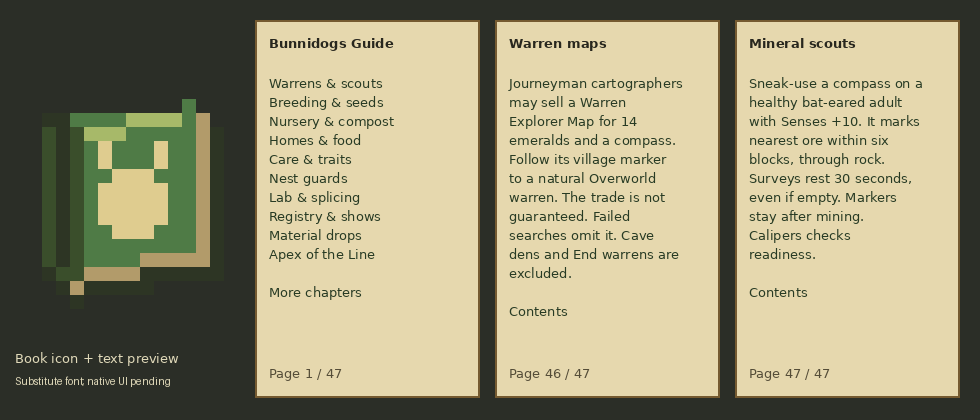
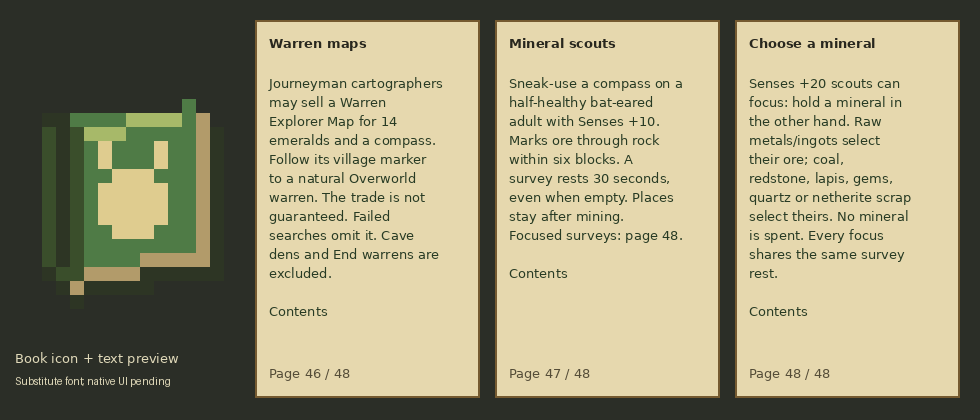
Let advanced mineral scouts focus surveys on a selected ore family

diff --git a/src/main/java/com/bunnidogs/mod/entity/MineralScouting.java b/src/main/java/com/bunnidogs/mod/entity/MineralScouting.java
@@ -1,6 +1,7 @@
 package com.bunnidogs.mod.entity;
 
 import com.bunnidogs.mod.genetics.Scouting;
+import com.bunnidogs.mod.genetics.Stat;
 import com.bunnidogs.mod.item.PlaceMarkers;
 import net.minecraft.core.BlockPos;
 import net.minecraft.core.registries.Registries;
@@ -13,13 +14,50 @@ import net.minecraft.world.InteractionHand;
 import net.minecraft.world.InteractionResult;
 import net.minecraft.world.entity.player.Player;
 import net.minecraft.world.level.block.Block;
+import net.minecraft.world.level.block.Blocks;
+import net.minecraft.world.level.block.state.BlockState;
+import net.minecraft.world.item.Items;
+import net.minecraft.world.item.ItemStack;
 
 /** Deliberate local survey; no terrain edits, random rolls, path search or chunk requests. */
 public final class MineralScouting {
     private MineralScouting() {}
     public static final TagKey<Block> ORES = TagKey.create(Registries.BLOCK,
             Identifier.fromNamespaceAndPath("bunnidogs","surveyable_ores"));
+    private static TagKey<Block> oreTag(String mineral) {
+        return TagKey.create(Registries.BLOCK,Identifier.withDefaultNamespace(mineral+"_ores"));
+    }
+    enum Focus {
+        ANY(null,null), COAL(oreTag("coal"),null), IRON(oreTag("iron"),null), COPPER(oreTag("copper"),null),
+        GOLD(oreTag("gold"),null), REDSTONE(oreTag("redstone"),null), LAPIS(oreTag("lapis"),null),
+        DIAMOND(oreTag("diamond"),null), EMERALD(oreTag("emerald"),null),
+        QUARTZ(null,Blocks.NETHER_QUARTZ_ORE), DEBRIS(null,Blocks.ANCIENT_DEBRIS);
+        private final TagKey<Block> family;
+        private final Block exact;
+        Focus(TagKey<Block> family, Block exact) { this.family = family; this.exact = exact; }
+        boolean matches(BlockState state) {
+            return state.is(ORES) && (this == ANY || this.family != null && state.is(this.family)
+                    || this.exact != null && state.is(this.exact));
+        }
+        Component label() { return Component.translatable("survey.bunnidogs.focus."+name().toLowerCase(java.util.Locale.ROOT)); }
+    }
+    private static Focus requested(ItemStack mineral) {
+        if (mineral.is(Items.COAL)) return Focus.COAL;
+        if (mineral.is(Items.RAW_IRON) || mineral.is(Items.IRON_INGOT)) return Focus.IRON;
+        if (mineral.is(Items.RAW_COPPER) || mineral.is(Items.COPPER_INGOT)) return Focus.COPPER;
+        if (mineral.is(Items.RAW_GOLD) || mineral.is(Items.GOLD_INGOT)) return Focus.GOLD;
+        if (mineral.is(Items.REDSTONE)) return Focus.REDSTONE;
+        if (mineral.is(Items.LAPIS_LAZULI)) return Focus.LAPIS;
+        if (mineral.is(Items.DIAMOND)) return Focus.DIAMOND;
+        if (mineral.is(Items.EMERALD)) return Focus.EMERALD;
+        if (mineral.is(Items.QUARTZ)) return Focus.QUARTZ;
+        if (mineral.is(Items.NETHERITE_SCRAP) || mineral.is(Items.NETHERITE_INGOT)) return Focus.DEBRIS;
+        return Focus.ANY;
+    }
     static BlockPos nearest(ServerLevel level, BlockPos center) {
+        return nearest(level,center,Focus.ANY);
+    }
+    private static BlockPos nearest(ServerLevel level, BlockPos center, Focus focus) {
         BlockPos best = null;
         double distance = Double.POSITIVE_INFINITY;
         int r = Scouting.RADIUS;
@@ -28,7 +66,7 @@ public final class MineralScouting {
             if (squared > r*r || squared >= distance) continue;
             var pos = center.offset(dx,dy,dz);
             if (level.hasChunkAt(pos) && level.getWorldBorder().isWithinBounds(pos)
-                    && level.getBlockState(pos).is(ORES)) { best = pos; distance = squared; }
+                    && focus.matches(level.getBlockState(pos))) { best = pos; distance = squared; }
         }
         return best;
     }
@@ -43,13 +81,18 @@ public final class MineralScouting {
             player.sendOverlayMessage(reason);
             return InteractionResult.SUCCESS;
         }
-        var pos = nearest(level,dog.blockPosition());
+        var focus = requested(player.getItemInHand(hand == InteractionHand.MAIN_HAND ? InteractionHand.OFF_HAND : InteractionHand.MAIN_HAND));
+        if (focus != Focus.ANY && dog.stats().get(Stat.SENSES) < Scouting.MIN_FOCUSED_SENSES) {
+            player.sendOverlayMessage(Component.translatable("message.bunnidogs.scouting.focus_requirement",Scouting.MIN_FOCUSED_SENSES));
+            return InteractionResult.SUCCESS;
+        }
+        var pos = nearest(level,dog.blockPosition(),focus);
         // Empty surveys also rest, so repeated clicks/gene edits cannot turn this into a continuous scanner.
         dog.beginScoutingRecovery();
-        if (pos == null) player.sendOverlayMessage(Component.translatable("message.bunnidogs.scouting.none",Scouting.RADIUS));
+        if (pos == null) player.sendOverlayMessage(Component.translatable("message.bunnidogs.scouting.none",focus.label(),Scouting.RADIUS));
         else {
             PlaceMarkers.bind(level,pos,player,hand);
-            player.sendOverlayMessage(Component.translatable("message.bunnidogs.scouting.marked",level.getBlockState(pos).getBlock().getName(),
+            player.sendSystemMessage(Component.translatable("message.bunnidogs.scouting.marked",level.getBlockState(pos).getBlock().getName(),
                     pos.getX(),pos.getY(),pos.getZ()));
         }
         dog.playSound(SoundEvents.AMETHYST_BLOCK_CHIME,.5F,1.2F);

diff --git a/tools/gametest/java/com/bunnidogs/mod/entity/ScoutingGameTest.java b/tools/gametest/java/com/bunnidogs/mod/entity/ScoutingGameTest.java
@@ -112,9 +112,41 @@ public final class ScoutingGameTest {
         var remote = dog.blockPosition().offset(4096,0,4096);
         h.assertTrue(!level.hasChunkAt(remote) && MineralScouting.nearest(level,remote) == null && !level.hasChunkAt(remote),
                 "An entirely unloaded survey must never request a chunk");
+        var coal = h.absolutePos(new BlockPos(2,1,3));
+        level.setBlock(coal,Blocks.COAL_ORE.defaultBlockState(),2);
+        level.setBlock(far,Blocks.DEEPSLATE_DIAMOND_ORE.defaultBlockState(),2);
+        var mineral = new ItemStack(Items.DIAMOND,2);
+        mineral.set(DataComponents.CUSTOM_NAME,Component.literal("Focus gem"));
+        player.setItemInHand(InteractionHand.MAIN_HAND,mineral);
+        loaded.setStats(Stats.ZERO.with(Stat.SENSES,19));
         loaded.mobInteract(player,InteractionHand.OFF_HAND);
-        h.assertTrue(loaded.scoutingWait() == Scouting.RECOVERY_TICKS && expected.equals(marked.get(DataComponents.LODESTONE_TRACKER)),
+        h.assertTrue(loaded.scoutingWait() == 0 && expected.equals(marked.get(DataComponents.LODESTONE_TRACKER)),
+                "A requested focus at Senses +19 must refuse without spending the general survey");
+        loaded.setStats(Stats.ZERO.with(Stat.SENSES,20));
+        loaded.mobInteract(player,InteractionHand.OFF_HAND);
+        var diamond = new LodestoneTracker(Optional.of(GlobalPos.of(level.dimension(),far)),false);
+        h.assertTrue(diamond.equals(marked.get(DataComponents.LODESTONE_TRACKER)) && mineral.getCount() == 2
+                && mineral.getHoverName().getString().equals("Focus gem") && loaded.scoutingWait() == Scouting.RECOVERY_TICKS,
+                "A focused native survey must skip nearer coal, include deepslate ores and preserve its named mineral");
+        player.setItemInHand(InteractionHand.MAIN_HAND,new ItemStack(Items.RAW_IRON,2));
+        loaded.mobInteract(player,InteractionHand.OFF_HAND);
+        h.assertTrue(loaded.scoutingWait() == Scouting.RECOVERY_TICKS && diamond.equals(marked.get(DataComponents.LODESTONE_TRACKER)),
+                "Changing the requested ore family must not bypass shared recovery");
+        resetRecovery(loaded);
+        loaded.mobInteract(player,InteractionHand.OFF_HAND);
+        h.assertTrue(loaded.scoutingWait() == Scouting.RECOVERY_TICKS && diamond.equals(marked.get(DataComponents.LODESTONE_TRACKER))
+                && player.getMainHandItem().getCount() == 2,
+                "An empty focused iron search must not fall back to nearby coal/diamond or consume its mineral");
+        resetRecovery(loaded); player.setItemInHand(InteractionHand.MAIN_HAND,ItemStack.EMPTY);
+        level.setBlock(coal,Blocks.STONE.defaultBlockState(),2); level.setBlock(far,Blocks.STONE.defaultBlockState(),2);
+        loaded.mobInteract(player,InteractionHand.OFF_HAND);
+        h.assertTrue(loaded.scoutingWait() == Scouting.RECOVERY_TICKS && diamond.equals(marked.get(DataComponents.LODESTONE_TRACKER)),
                 "An empty survey must rest without changing an old compass marker");
-        h.succeed();
+    }
+    private static void resetRecovery(Bunnidog dog) {
+        var saved = TagValueOutput.createWithContext(ProblemReporter.DISCARDING,dog.level().registryAccess());
+        dog.saveWithoutId(saved);
+        var tag = saved.buildResult(); tag.remove("ScoutWait");
+        dog.load(TagValueInput.create(ProblemReporter.DISCARDING,dog.level().registryAccess(),tag));
     }
 }

diff --git a/art/gen_guide.py b/art/gen_guide.py
@@ -49,9 +49,10 @@ PAGES = {
     44: ('Treat a litter', 'Use or dispense one Mutagen at a planted seed or occupied Cradle. Growth, incubation, parents, quality and item details stay intact. Treated or invalid litters keep the vial. You can treat a ripe litter before hatching.'),
     45: ('Nest guards', 'Sneak-use a bone on a feral adult with a Nest to toggle guarding. No bone is spent. Free, half-healthy guards bite selected hostiles within eight blocks of home. Leads pause them. Calipers reports readiness. They can still be hurt.'),
     46: ('Warren maps', 'Journeyman cartographers may sell a Warren Explorer Map for 14 emeralds and a compass. Follow its village marker to a natural Overworld warren. The trade is not guaranteed. Failed searches omit it. Cave dens and End warrens are excluded.'),
-    47: ('Mineral scouts', 'Sneak-use a compass on a healthy bat-eared adult with Senses +10. It marks nearest ore within six blocks, through rock. Surveys rest 30 seconds, even if empty. Markers stay after mining. Calipers checks readiness.'),
+    47: ('Mineral scouts', 'Sneak-use a compass on a half-healthy bat-eared adult with Senses +10. Marks ore through rock within six blocks. A survey rests 30 seconds, even when empty. Places stay after mining. Focused surveys: page 48.'),
+    48: ('Choose a mineral', 'Senses +20 scouts can focus: hold a mineral in the other hand. Raw metals/ingots select their ore; coal, redstone, lapis, gems, quartz or netherite scrap select theirs. No mineral is spent. Every focus shares the same survey rest.'),
 }
-PAGE_COUNT = 47
+PAGE_COUNT = 48
 MAIN_INDEX = {2:'Warrens & scouts',4:'Breeding & seeds',41:'Nursery & compost',8:'Homes & food',11:'Care & traits',45:'Nest guards',15:'Lab & splicing',
               17:'Registry & shows',19:'Material drops',20:'Apex of the Line'}
 MORE_INDEX = {24:'Guava juice',25:'Gardens & stores',27:'Boss forecast',28:'Living harvests',29:'Terrain & fishing',
@@ -102,7 +103,7 @@ def main():
         bold = ImageFont.truetype('DejaVuSans-Bold.ttf',13)
     except OSError:
         font = bold = ImageFont.load_default()
-    for x,page in [(255,1),(495,46),(735,47)]:
+    for x,page in [(255,46),(495,47),(735,48)]:
         d.rectangle((x,20,x+224,397),fill=(230,216,174),outline=(117,90,48),width=2)
         title = 'Bunnidogs Guide' if page == 1 else 'More chapters' if page == 40 else PAGES[page][0]
         d.text((x+14,35),title,font=bold,fill=(40,39,30))

diff --git a/src/main/java/com/bunnidogs/mod/genetics/Adaptations.java b/src/main/java/com/bunnidogs/mod/genetics/Adaptations.java
@@ -24,7 +24,7 @@ public final class Adaptations {
     public static boolean luminous(Genome genome) { return genome.expressed(Gene.COAT).name().equals("glow"); }
     public static int blockLight(Genome genome, int environmental) { return luminous(genome) ? 15 : environmental; }
     public static String explanation(Gene gene, Allele allele) {
-        if (gene == Gene.EARS && allele.name().equals("bat")) return "Healthy adults with Senses +10 can mark nearby ore: sneak-use a compass. Six-block range, thirty-second saved recovery.";
+        if (gene == Gene.EARS && allele.name().equals("bat")) return "Healthy adults with Senses +10 can mark nearby ore: sneak-use a compass. At +20, a mineral in the other hand selects its ore family. Six-block range, thirty-second shared recovery.";
         if (gene == Gene.COAT && allele.name().equals("ember")) return "Immune to fire and lava.";
         if (gene == Gene.BUILD && allele.name().equals("woolly"))
             return "Does not freeze in powder snow. Healthy adults yield two wool in their expressed coat's palette with shears every ten minutes.";

diff --git a/src/main/java/com/bunnidogs/mod/item/FieldGuideItem.java b/src/main/java/com/bunnidogs/mod/item/FieldGuideItem.java
@@ -11,7 +11,7 @@ import net.minecraft.world.item.component.WrittenBookContent;
 
 /** Native book UI/packets, translated pages and local page links; no custom screen or payload. */
 public final class FieldGuideItem extends WrittenBookItem {
-    public static final int PAGE_COUNT = 47;
+    public static final int PAGE_COUNT = 48;
     private static final int MORE_CONTENTS = 40;
     public FieldGuideItem(Properties properties) {
         super(properties.component(DataComponents.WRITTEN_BOOK_CONTENT, content()));

diff --git a/src/main/java/com/bunnidogs/mod/genetics/Scouting.java b/src/main/java/com/bunnidogs/mod/genetics/Scouting.java
@@ -4,6 +4,7 @@ package com.bunnidogs.mod.genetics;
 public final class Scouting {
     private Scouting() {}
     public static final int MIN_SENSES = 10;
+    public static final int MIN_FOCUSED_SENSES = 20;
     public static final int RADIUS = 6;
     public static final int RECOVERY_TICKS = 30*20;
     public enum Status { UNAVAILABLE, ADULT, HEALTH, TRAITS, COMBAT, RESTING, READY }

diff --git a/START_HERE.md b/START_HERE.md
@@ -22,6 +22,12 @@ checkpoints/compaction and reserve only the capacity needed to deliver safely.
 
 ## Latest gameplay work — 2026-10-18
 
+- **E3, focused surveys:** Senses +20 mineral scouts can select an ore family
+  from a reusable mineral in the other hand. Native family tags include
+  deepslate; every focus shares normal range/rest and empty searches never
+  fall back to unwanted ore. Coordinates persist in chat. Build/all 40 cases
+  pass; updated guide preview inspected. See `docs/EXPLORATION_SPECS.md` E3.
+
 - **E2, mineral scouts:** sneak-use a compass on a half-healthy bat-eared
   adult at Senses +10 to mark the nearest ore within six blocks. Through-rock
   survey reads loaded/bordered terrain only, with saved thirty-second rest
@@ -136,7 +142,7 @@ storm shelter, fishing, terrain traits, local supplies, living dust and fitted
 farms are also complete. Their rules/evidence remain in the specifications
 listed below; do not redo them.
 
-The native Field Guide has 47 translated pages and twenty chapter links across
+The native Field Guide has 48 translated pages and twenty chapter links across
 two linked contents pages.
 `art/gen_guide.py` owns text/icon/preview; `art/gen_pantries.py` owns eight
 lineage food tables and shares the guide pool. See `docs/FIELD_GUIDE.md`.
@@ -156,7 +162,7 @@ lineage food tables and shares the guide pool. See `docs/FIELD_GUIDE.md`.
 | Homes/travel | Claimable Nests, day tether/night return, floor Nests, native leads/rides, led-adult reassignment, Travel Baskets and persistent compass place markers. `docs/HOME_SPECS.md` H1–H7 |
 | Settlement life | Saved trough stock/automation/filters, diet healing/short night meals, bell visits, fitted furniture, harvest/cultivation/surplus composting, guava compost data, local stores, refuge, storm shelter and opt-in feral Nest guards. `docs/SETTLEMENT_LIFE.md` L1–L16 |
 | Warrens | Fitted dens/mouths/tunnels/cellars, landmark rooms, grand-tree hall/loop/lower commons, cave/Nether/End entrances and saved labels. `docs/WARREN_PLAN.md` U1–U8 |
-| Exploration | Native cartographer Warren Maps and bred bat-ear compass ore surveys. `docs/EXPLORATION_SPECS.md` E1–E2 |
+| Exploration | Native cartographer Warren Maps and bred bat-ear compass surveys, with optional mineral-family focus at Senses +20. `docs/EXPLORATION_SPECS.md` E1–E3 |
 | Wood and travel | Guava building/redstone set, doors/shutters/lamps, four sign forms, native boats/chest boats with custom assets and drops. `docs/FIXES_PLAN.md` 4–5 |
 | Drops and endgame | Pelts/materials, Mutagen/Marrow/Tissue/Dust, five stat legends and pedestals. Sample-defined Apex ritual, inherited combat, warned attacks/enrage, boss bar and source-line crest. `docs/DROPS_SPECS.md`, `docs/APEX_SPECS.md` |
 | Apex preparation | Crucible missing-offering status; main-hand Calipers/off-hand sample forecasts real boss values without spending or spawning. `docs/APEX_SPECS.md` P2 |

diff --git a/docs/EXPLORATION_SPECS.md b/docs/EXPLORATION_SPECS.md
@@ -73,3 +73,42 @@ with no new chunk and an empty survey preserving an older marker pass.
 Existing Nest marker stacking/creative/overflow/native-save tests still pass
 through the shared marker helper. The guide preview is inspected. Client
 compass rendering, natural cave use and mining balance remain gameplay review.
+
+## E3: focused mineral surveys
+
+At **+20 bred Senses**, a qualified bat-ear scout can search for one ore family
+instead of every ore. Hold its mineral in the hand opposite the compass:
+
+| Held mineral | Survey target |
+|---|---|
+| Coal | Coal ores |
+| Raw iron / iron ingot | Iron ores |
+| Raw copper / copper ingot | Copper ores |
+| Raw gold / gold ingot | Gold ores, including native Nether gold |
+| Redstone / lapis lazuli | Corresponding redstone / lapis ores |
+| Diamond / emerald | Corresponding gem ores |
+| Quartz | Nether quartz ore |
+| Netherite scrap / netherite ingot | Ancient debris |
+
+Raw metals/ingots use the native block-family tags, including deepslate forms.
+All candidates must also remain in the adjustable `surveyable_ores` tag.
+The mineral is a reusable cue: names, components and counts remain unchanged.
+An unrecognized other-hand item makes a general survey. A recognized cue below
+Senses +20 explains the requirement without spending the general survey or
+changing the compass. Clear the mineral to make a Senses +10 general survey.
+
+Range, loaded/border rules and one saved animal recovery remain shared by every
+family and general surveys. No matching ore means an empty survey and rest;
+there is no fallback to a nearer unwanted mineral. Changing the cue, genes,
+stats or compasses cannot skip recovery. Successful coordinates now go to
+persistent native chat so the player can refer to depth after the action bar
+would disappear. Calipers, gene hovers and guide page 48 explain the advanced
+role. No new item, recipe, data format or network payload is introduced.
+
+E3 evidence (2026-10-18): actual Java 25 build/all 40 native scenarios pass.
+The existing survey case exercises Senses +19/+20 with a named diamond cue,
+marking farther deepslate diamond despite nearer coal. Cue count/name stay
+intact; switching to raw iron retains recovery, and a rested iron search with
+no match never falls back to coal/diamond or changes the older place marker.
+The updated scout/focus guide preview is inspected. Natural focused mining
+and client reading remain gameplay review.

diff --git a/docs/FIELD_GUIDE.md b/docs/FIELD_GUIDE.md
@@ -39,6 +39,8 @@ the village marker and Overworld structure limits. Page 2 points to it.
 Page 47 explains bred bat-ear mineral surveying, six-block range, shared rest
 including empty surveys and persistent compass places after mining. The first
 index labels the exploration chapter **Warrens & scouts**; page 2 points to both.
+Page 48 explains Senses +20 mineral cues and shared survey recovery. Page 47
+points to it; all older page numbers and twenty chapter links remain stable.
 The home page also covers read-only Nest inspection and persistent compass marks.
 The food page explains short safe nighttime trough meals near home.
 
@@ -51,7 +53,7 @@ containers are not refilled and player inventories are not edited. See
 
 ## Presentation and saves
 
-Forty-seven pages use the ordinary written-book screen. The two linked contents pages
+Forty-eight pages use the ordinary written-book screen. The two linked contents pages
 offer twenty clickable chapter links. Each chapter links back to its index. Local page changes
 are the only click action. All text is translatable through en_us.json. The
 book stacks to one and appears beside the Calipers in Tools & Utilities.
@@ -70,8 +72,8 @@ resource-pack fonts may differ. The source preview uses a substitute font.
 ## Evidence
 
 The actual Java 25 build and current forty native server cases pass,
-including loading the book/recipe/loot resources. The expanded 47-page
-contents/map/scout preview is inspected with a substitute font. Earlier
+including loading the book/recipe/loot resources. The expanded 48-page
+map/scout/focus preview is inspected with a substitute font. Earlier
 pages were shortened using the conservative native text-area estimate.
 Native WrittenBookItem, ServerPlayer, ClientPacketListener and BookViewScreen
 sources establish the ordinary book/packet/click behavior; no new screen or

diff --git a/README.md b/README.md
@@ -4,7 +4,7 @@ A NeoForge mod for Minecraft 26.2: a baby-faced creature with rabbit ears and a
 dog's body, plus breeding, genetics, guavas, warrens, homes and pedigree tools.
 Requires JDK 25. The checked-in Gradle wrapper selects the project Gradle version.
 
-Craft a vanilla book with any guava for the **47-page Field Guide**, with two
+Craft a vanilla book with any guava for the **48-page Field Guide**, with two
 linked contents pages covering its chapters. Sneak-use
 Calipers for care/work readiness, use a hoe on a Feeding Trough to enable
 resident gardening, and explore food stores for supplies suited to each lineage.
@@ -44,6 +44,7 @@ the command spends no bone. Calipers reports its enabled/paused status.
 Journeyman cartographers may sell native Warren Explorer Maps to Overworld settlements.
 Sneak-use a compass on a healthy bat-eared adult with Senses +10 for a nearby
 ore marker. Surveys use loaded terrain and rest thirty seconds, even if empty.
+At Senses +20, a mineral in the other hand selects its ore family without being spent.
 
 ## Build and play
 

diff --git a/docs/ROADMAP.md b/docs/ROADMAP.md
@@ -16,6 +16,12 @@ and mouths, **H3b** house floor Nests. V1a, V1b, H3 and H4 WORK.
 
 ## Latest implemented work (gameplay pending)
 
+E3 adds Senses +20 mineral-family focus to compass surveys, using a reusable
+mineral in the other hand and native ore-family tags. Recovery/range remain
+shared and no-match searches retain the old marker. Coordinates now persist
+in chat. Build/all 40 native cases pass; 48-page guide preview inspected. See
+`EXPLORATION_SPECS.md`.
+
 E2 gives expressed bat ears a bred exploration role: Senses +10 adults mark
 nearby loaded ore on a compass, with a six-block sphere and saved thirty-second
 recovery including empty surveys. Whole place-marker components persist after
